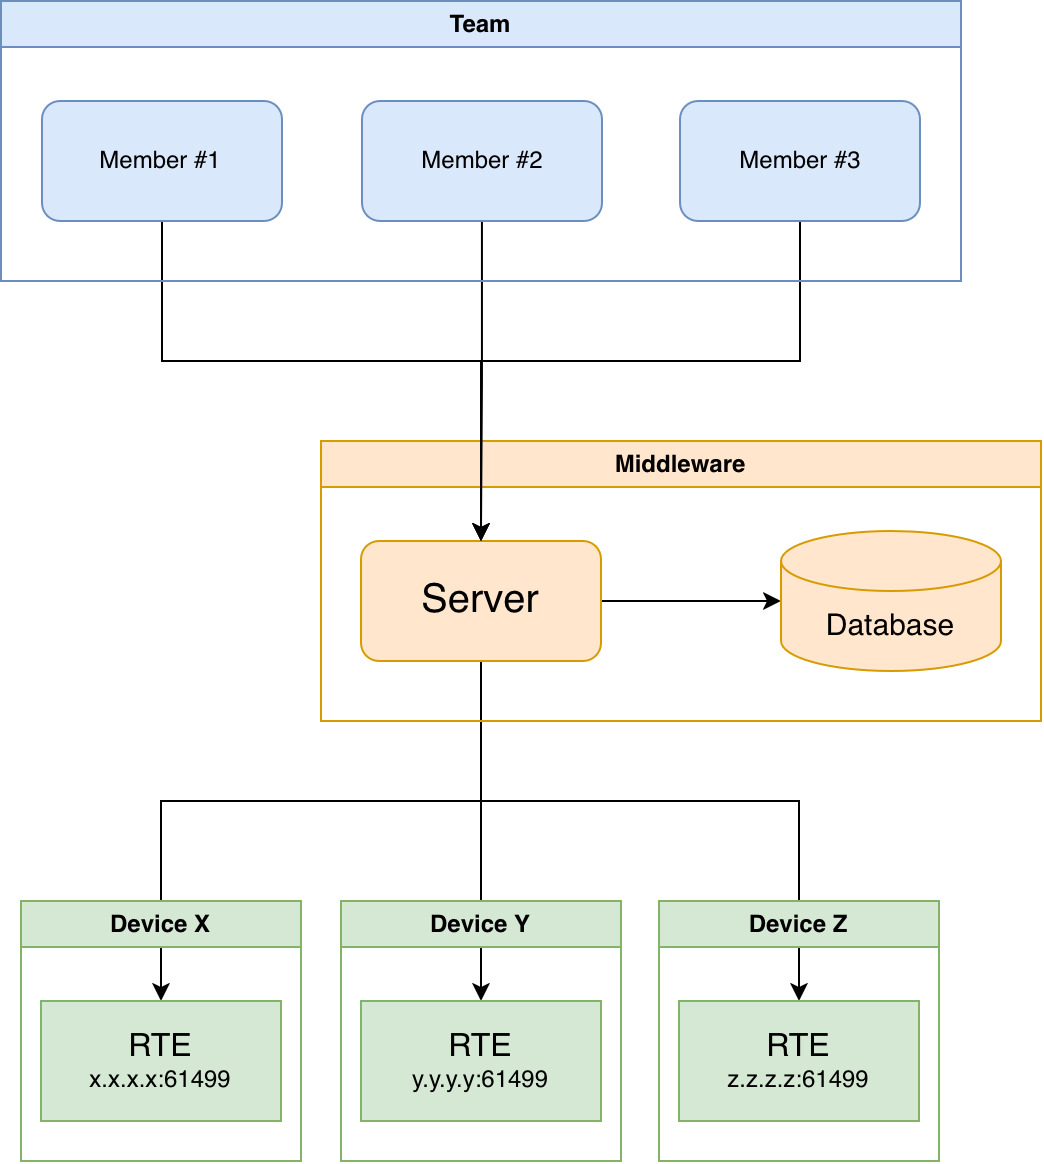
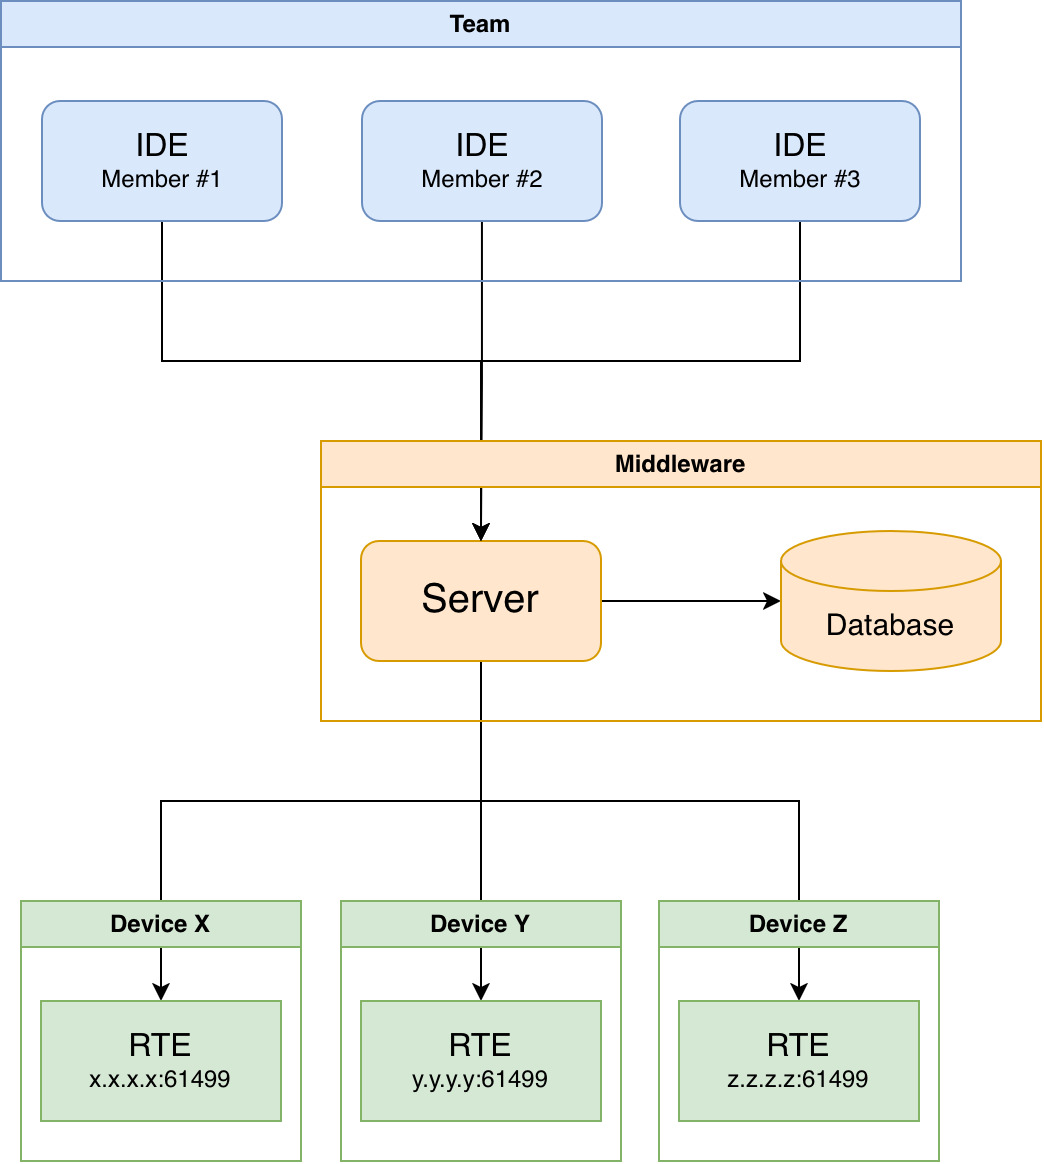
[report] Devices configuration view

Changed region(s): [[0.705, 0.0928, 0.8276, 0.1856], [0.3985, 0.0928, 0.5211, 0.1546], [0.092, 0.0928, 0.2146, 0.1546]]

diff --git a/report/body/chapter5.tex b/report/body/chapter5.tex
@@ -9,6 +9,8 @@ To be able to prove the proposed solution is viable and will successfully addres
 Out of all \acp{RTE} compatible with \textit{IEC 61499}, this prototype will focus on supporting \textit{DINASORE} (Dynamic INtelligent Architecture for Software and MOdular REconfiguration). It is much less complex than others, making it ideal for a proof of concept \ac{IDE}. As an open-source project, \textit{DINASORE} can be freely inspected and studied, which is particularly valuable in a research and prototyping context where flexibility is prioritised over real-time performance guarantees. This ease of study rules out the use of commercial \acp{RTE} like \textit{EcoStruxure Automation Expert's "dPAC"} and \textit{ISaGRAF Runtime}. Other open-source \acp{RTE} were considered, but none was as well-suited as \textit{DINASORE}. \textit{4diac FORTE} for example was way too extensive and complicated to be able to easily study it's source code.
 % TODO maybe talk about the use of python both in dinasores code and the fbs code
 
+By default, \textit{DINASORE} uses the port \textit{61499} to receive commands from the \ac{IDE} and send responses. This is important to note as it is the port that will be used as example throughout this document. The exact details of the communication implementation will be explained further in \Cref{sec:deployment}.
+
 \begin{figure}[h!]
   \includegraphics[width=0.5\linewidth]{dinasore-logo.png}
   \caption{\textit{DINASORE} logo}
@@ -28,16 +30,37 @@ Being the middleware, there are 4 different types of network communications that
   \item \textbf{Deployment sockets}: Communicates via sockets with each \ac{RTE} to send commands and receive the corresponding responses.
 \end{itemize}
 
-\begin{figure}[h!]
-  \includegraphics[width=1\linewidth]{ide-server-rte.jpg}
+\begin{figure}[H]
+  \includegraphics[width=0.7\linewidth]{ide-server-rte.jpg}
   \caption{Communication through the Middleware}
   \label{fig:ide-server-rte}
 \end{figure}
 
+% TODO talk about changes made to DINASORE? ask the supervisor
+
 \section{Frontend}
 The frontend is the \ac{UI} that will be used to create and modify the \ac{FBD} programs. It consists of a 3 views.
+% TODO want to talk a bit more about what a frontend is
 
-\subsection{Devices Configuration}
+\subsection{Devices Configuration View}
+In the interest of distributed \ac{CPPS}, \textit{IEC 61499} allows function blocks to be mapped to different \textit{DINASOREs}, so we need a clean way to define the resources that are available. % TODO something more?
+
+Each \textit{DINASORE} should have three fields that the team can configure:
+
+\begin{itemize}
+  \item \textbf{Name}: Human friendly name to quickly identify what device this is
+  \item \textbf{Endpoint}: The IP address of the device and the port where \textit{DINASORE} is running
+  \item \textbf{Color}: The color associated with this \textit{DINASORE} instance, providing a visual distinction in the \textit{Graph View} between function blocks mapped to different instances.
+\end{itemize}
+
+where other
+Local-first
+
+\begin{figure}[H]
+  \includegraphics[width=0.7\linewidth]{devices-configuration.jpg}
+  \caption{Devices Configuration View}
+  \label{fig:devices-configuration}
+\end{figure}
 
 \subsection{Function Blocks Editor View}
 
@@ -48,5 +71,5 @@ The frontend is the \ac{UI} that will be used to create and modify the \ac{FBD} 
 \section{Real-Time Collaboration} \label{sec:real-time-collaboration}
 
 
-\section{Deployment}
+\section{Deployment} \label{sec:deployment}
 \subsection{Deployment Console}

diff --git a/report/main.tex b/report/main.tex
@@ -53,6 +53,7 @@
 
 \copyrightnotice{Pedro Beirão, 2026}
 
+% TODO ask orientador if he wants to be called supervisor
 \supervisor{Supervisor}{Prof.\ Rui Pinto}
 
 %% Comment committee stuff for final version, if not used